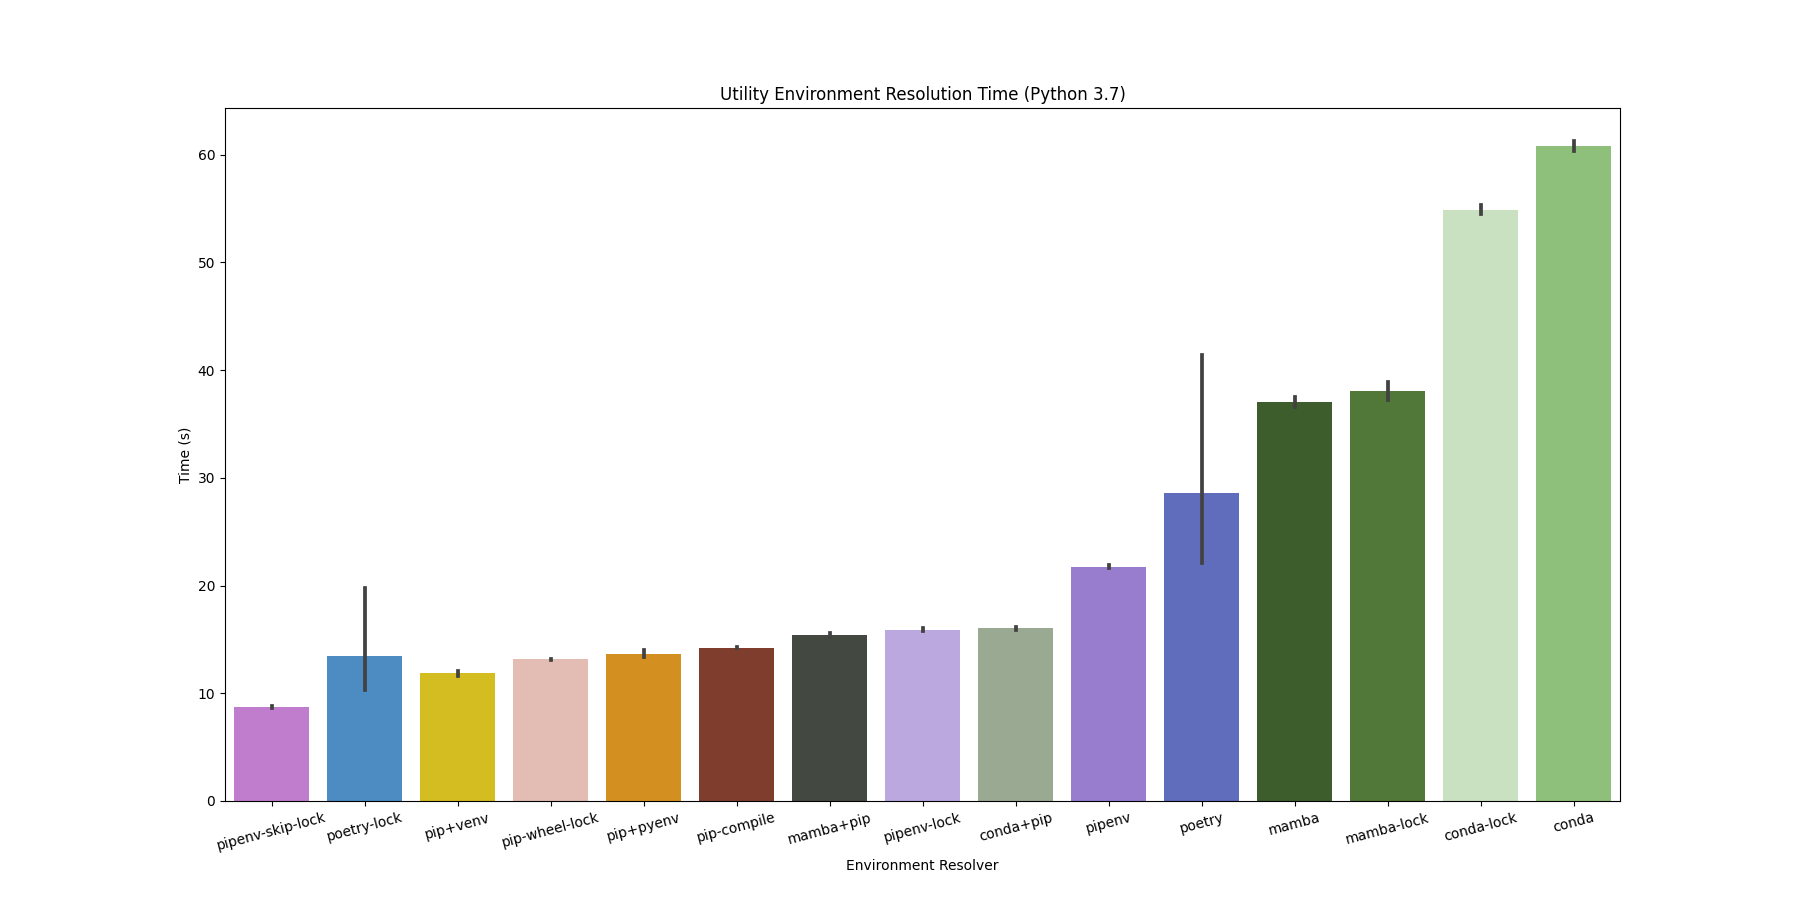
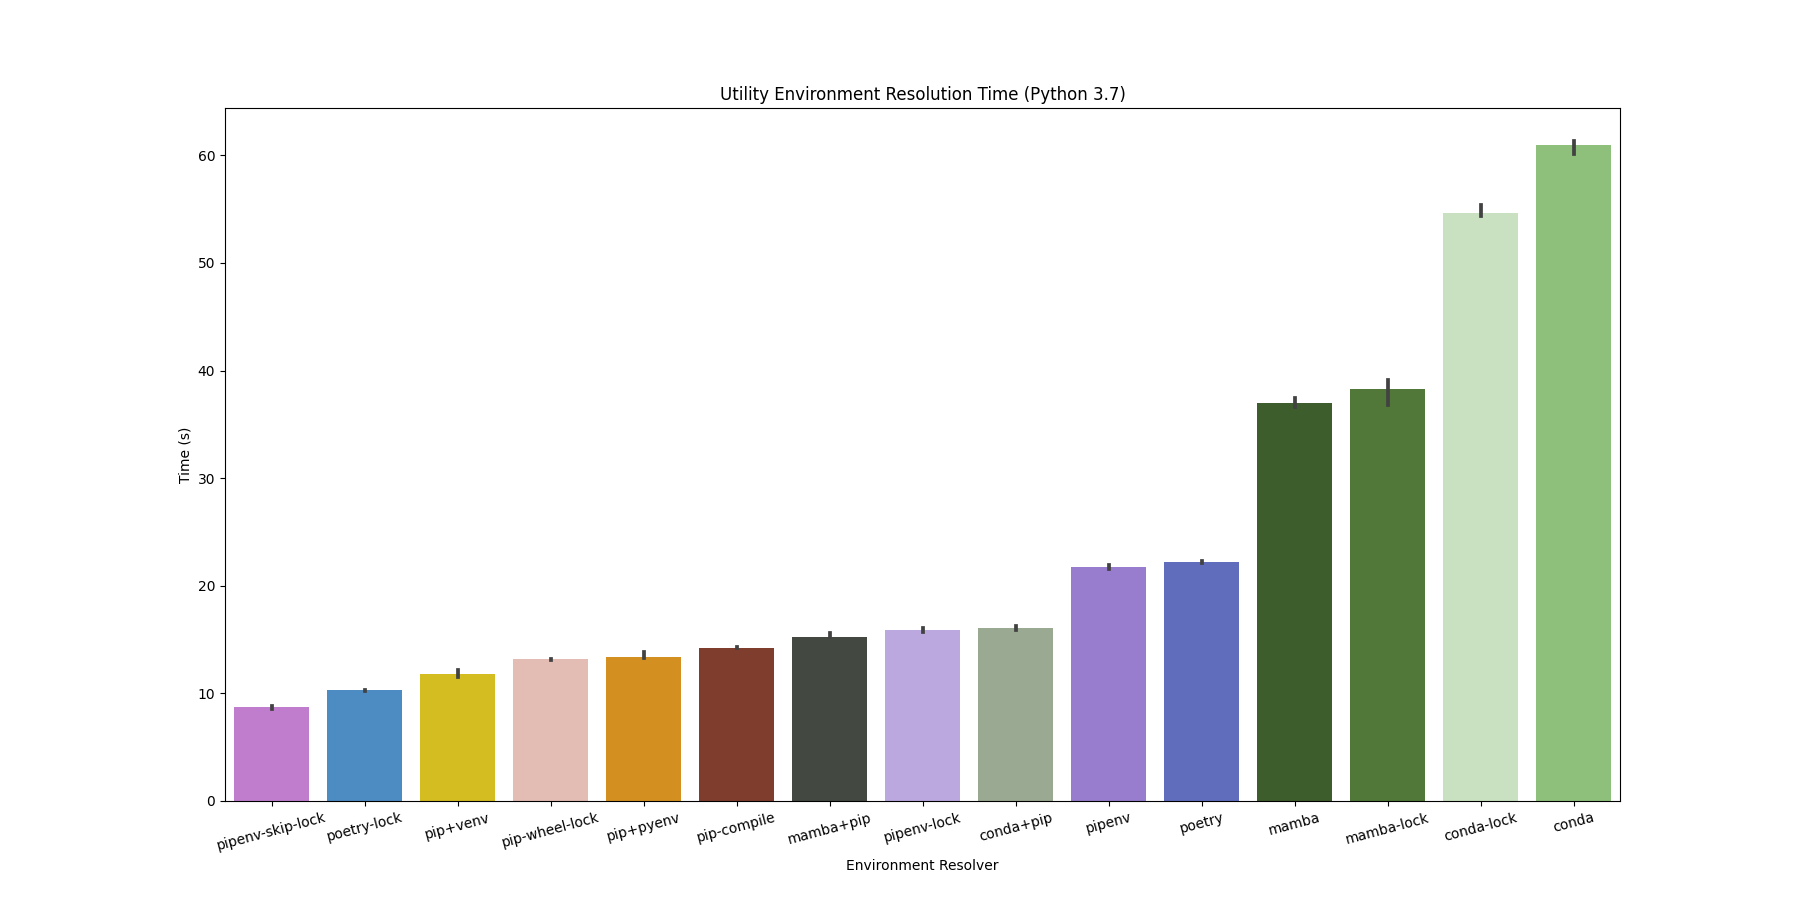
use median on plot bars

diff --git a/plot-results.py b/plot-results.py
@@ -6,6 +6,7 @@ import google.cloud.storage as gs
 import pandas as pd
 import seaborn as sns
 import matplotlib.pyplot as plt
+import numpy as np
 
 # conda+mamba - shades of green (Derived from anaconda website)
 # poetry - shades of blue  (Derived from their logo)
@@ -49,7 +50,8 @@ def plot(project, df, image_file, python_version, show_image=False):
                            y='time',
                            data=df,
                            order=sorted_indices,
-                           palette=sorted_colors)
+                           palette=sorted_colors,
+                           estimator=np.median)
     ax = plt.gca()
     ax.set_ylabel('Time (s)')
     ax.set_xlabel('Environment Resolver')
